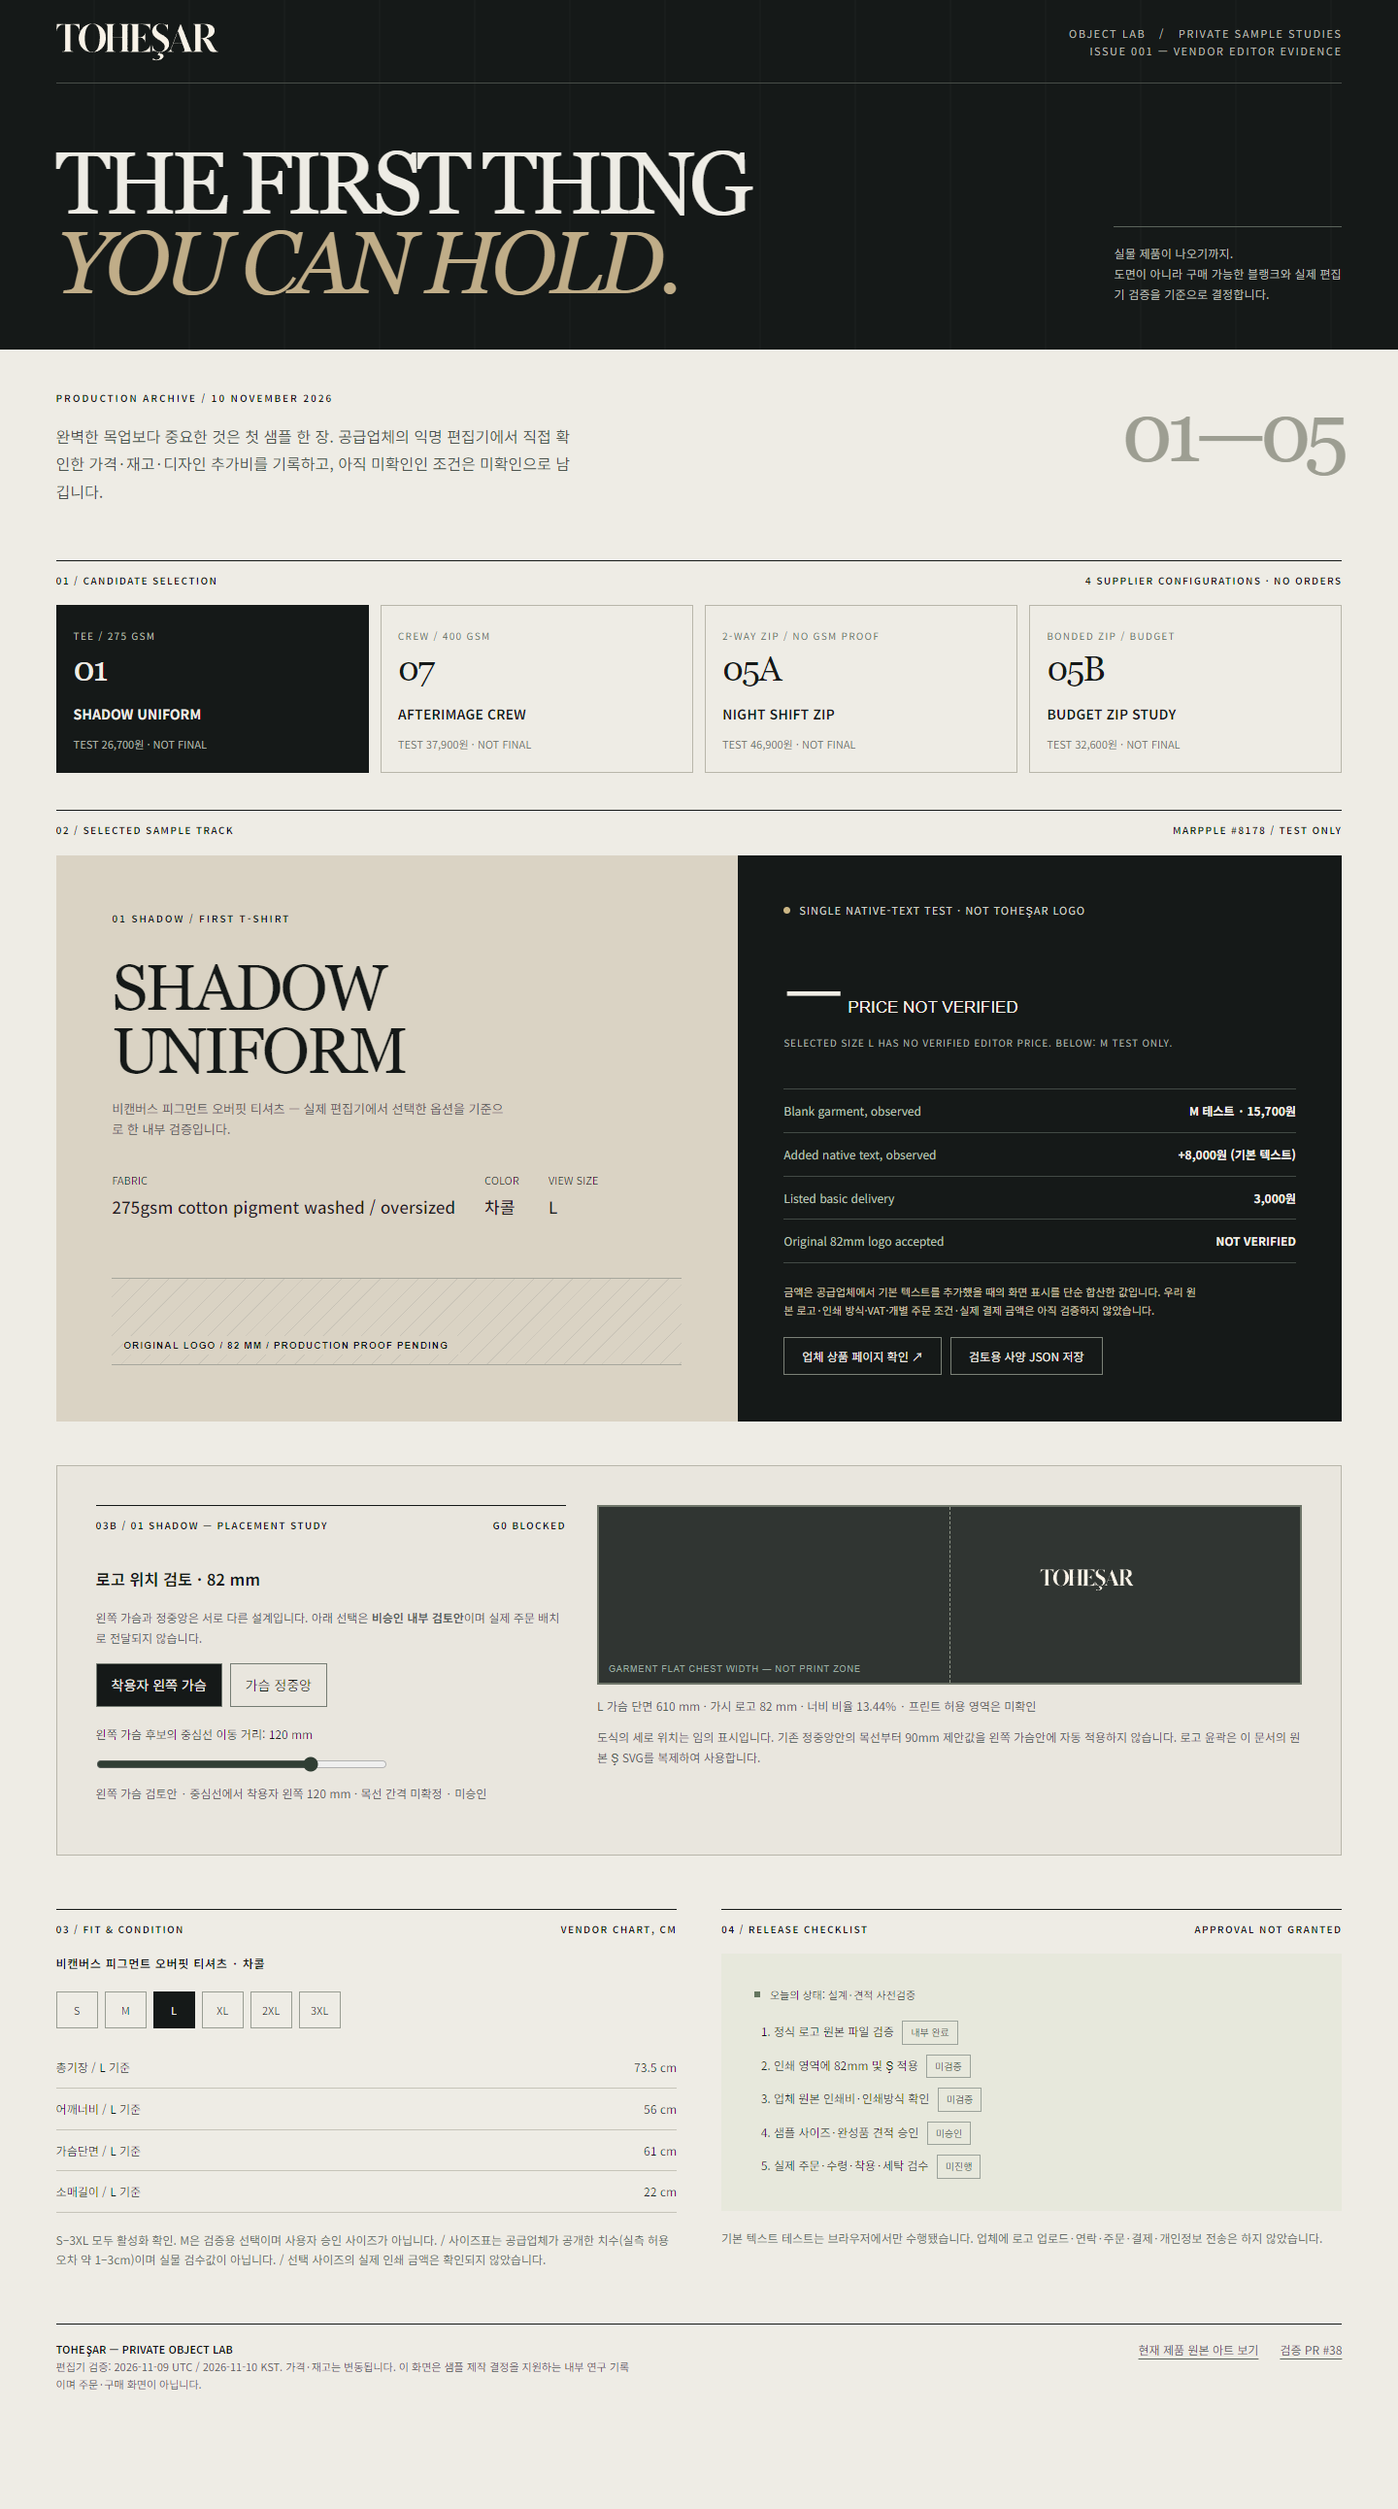
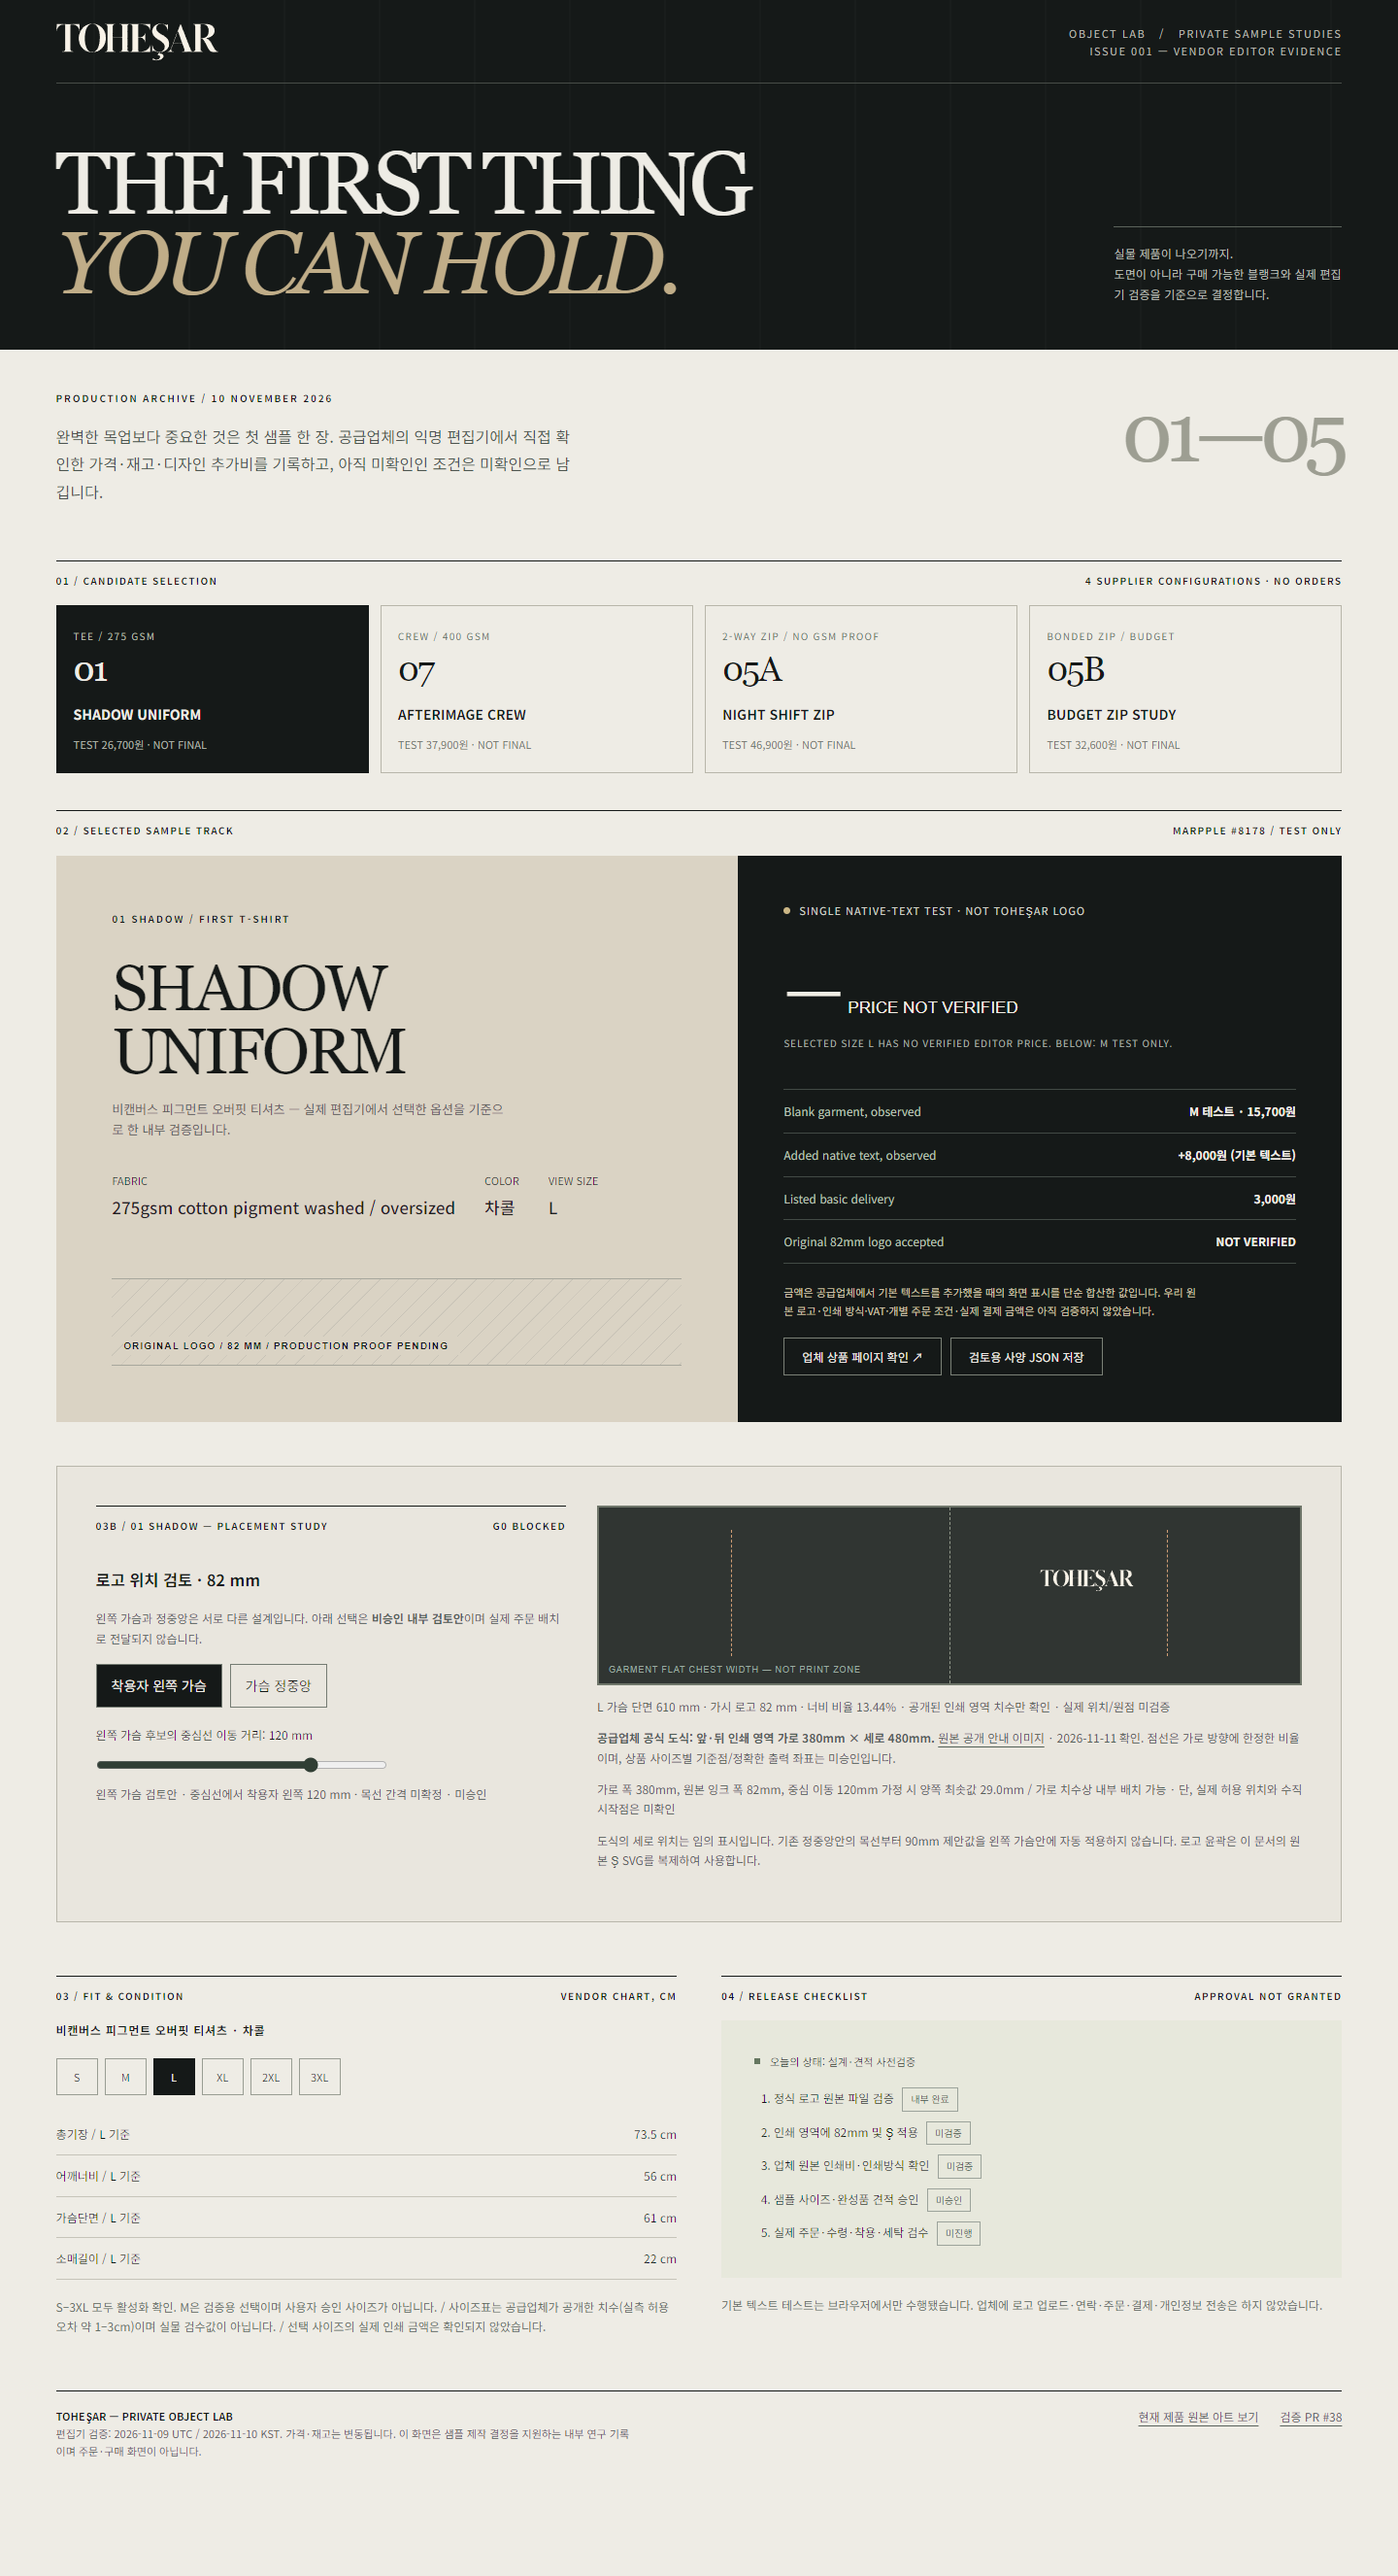
object-lab(01): ground chest placements in seller 380x480mm public print zone

diff --git a/object-lab/apparel/sample-room/SAMPLE-DECISION-ROOM-20261110.html b/object-lab/apparel/sample-room/SAMPLE-DECISION-ROOM-20261110.html
@@ -12,6 +12,7 @@
 .placement-fabric{width:100%;height:185px;background:#303532;position:relative;border:2px solid #6f766a;overflow:hidden}
 .placement-fabric:before{content:'';position:absolute;left:50%;top:0;height:100%;border-left:1px dashed #949b8d}
 .placement-fabric:after{content:'GARMENT FLAT CHEST WIDTH — NOT PRINT ZONE';position:absolute;bottom:9px;left:10px;font:9px Arial,sans-serif;color:#9caba0;letter-spacing:.1em}
+.print-zone-overlay{position:absolute;top:23px;bottom:28px;transform:translateX(-50%);border-left:1.5px dashed #e8ad7f;border-right:1.5px dashed #e8ad7f;pointer-events:none;opacity:.9}
 .placement-graphic{position:absolute;top:64px;transform:translateX(-50%);height:auto}
 .placement-graphic svg{display:block;width:100%;height:auto}
 .placement-empty{position:absolute;top:40px;left:20px;font-size:12px;color:#d6d6cb}
@@ -29,8 +30,11 @@
  </div>
  <div><div class="placement-fabric" id="placementFabric" aria-label="판매자 가슴 단면 대비 82mm 로고 비율 개념도">
  <div id="placementEmpty" class="placement-empty">검토할 위치를 선택하면 원본 Ş 로고가 표시됩니다.</div>
+ <div id="printZoneOverlay" class="print-zone-overlay" aria-hidden="true"></div>
  <div id="placementGraphic" class="placement-graphic" hidden></div>
  </div><p class="placement-note" id="placementScale">가슴 단면 기반 단순 비율 개념도. 실제 의류 패턴·인쇄 가능 영역·목선 위치가 아닙니다.</p>
+ <p class="placement-note" id="printZoneEvidence"><strong>공급업체 공식 도식: 앞·뒤 인쇄 영역 가로 380mm × 세로 480mm.</strong> <a href="https://s3.marpple.co/files/u_3136606/2025/5/original/9ccf2ad4d9fc9d4ddf486b3df5fb12ad55cab5471.png" target="_blank" rel="noopener noreferrer">원본 공개 안내 이미지</a> · 2026-11-11 확인. 점선은 가로 방향에 한정한 비율이며, 상품 사이즈별 기준점/정확한 출력 좌표는 미승인입니다.</p>
+ <p class="placement-note" id="printZoneFit" aria-live="polite">후보 위치를 선택하면 공급업체 공개 인쇄 영역의 가로 폭에 대한 조건부 여유를 계산합니다. 제조 허용 여부를 뜻하지 않습니다.</p>
  <p class="placement-note">도식의 세로 위치는 임의 표시입니다. 기존 정중앙안의 목선부터 90mm 제안값을 왼쪽 가슴안에 자동 적용하지 않습니다. 로고 윤곽은 이 문서의 원본 Ş SVG를 복제하여 사용합니다.</p></div>
  </section><section class="details"><div class="detail-col"><div class="sectionlabel"><span>03 / Fit & condition</span><span>vendor chart, cm</span></div><h3 id="sizeTitle">테스트 색상 · 차콜</h3><div class="sizebar" id="sizes" aria-label="검사 당시 사이즈 상태"></div><table class="tabledetail"><tr><td>길이 / M 기준</td><td id="measureLength"></td></tr><tr><td>어깨 / M 기준</td><td id="measureShoulder"></td></tr><tr><td>가슴 너비 / M 기준</td><td id="measureChest"></td></tr><tr><td>소매 길이 / M 기준</td><td id="measureSleeve"></td></tr></table><p class="comment" id="sizeComment"></p></div><div class="detail-col"><div class="sectionlabel"><span>04 / Release checklist</span><span>Approval not granted</span></div><div class="gates"><div class="product-flag">오늘의 상태: 설계·견적 사전검증</div><ol><li>정식 로고 원본 파일 검증 <span class="badge-inline">내부 완료</span></li><li>인쇄 영역에 82mm 및 Ş 적용 <span class="badge-inline">미검증</span></li><li>업체 원본 인쇄비·인쇄방식 확인 <span class="badge-inline">미검증</span></li><li>샘플 사이즈·완성품 견적 승인 <span class="badge-inline">미승인</span></li><li>실제 주문·수령·착용·세탁 검수 <span class="badge-inline">미진행</span></li></ol></div><p class="comment">기본 텍스트 테스트는 브라우저에서만 수행됐습니다. 업체에 로고 업로드·연락·주문·결제·개인정보 전송은 하지 않았습니다.</p></div></section><footer class="endnote"><p><strong>TOHEŞAR — PRIVATE OBJECT LAB</strong><br>편집기 검증: 2026-11-09 UTC / 2026-11-10 KST. 가격·재고는 변동됩니다. 이 화면은 샘플 제작 결정을 지원하는 내부 연구 기록이며 주문·구매 화면이 아닙니다.</p><div class="actionlinks"><a id="artLink" target="_blank" rel="noopener noreferrer">현재 제품 원본 아트 보기</a><a href="https://github.com/kimkimhs36/tohesar/pull/38" target="_blank" rel="noopener noreferrer">검증 PR #38</a></div></footer></main><script>
 const products=[
@@ -81,7 +85,8 @@ function render(){
  el('stockLabel').textContent='MARPPLE #'+d.sku+' / TEST ONLY';
 }
 
-const placementReview={mode:null,offsetMm:100}; // Explicit candidate, never automatic owner approval.
+const placementReview={mode:null,offsetMm:100}; // Owner approval never inferred.
[1 lines of base64/hex data omitted]
 const originalPreview=document.querySelector('svg.brandmark').cloneNode(true);
 originalPreview.removeAttribute('class');originalPreview.setAttribute('aria-hidden','true');
 el('placementGraphic').appendChild(originalPreview);
@@ -101,7 +106,13 @@ function renderPlacement(d,chosen){
  // Front view: wearer's left is on the viewer's right of the center line.
  el('placementGraphic').style.left=(50+100*centerOffsetMm/chestWidthMm)+'%';
  el('placementGraphic').style.width=(100*inkWidthMm/chestWidthMm)+'%';
- el('placementScale').textContent=chosen+' 가슴 단면 '+chestWidthMm+' mm · 가시 로고 '+inkWidthMm+' mm · 너비 비율 '+(100*inkWidthMm/chestWidthMm).toFixed(2)+'% · 프린트 허용 영역은 미확인';
+ el('printZoneOverlay').style.left='50%';
+ el('printZoneOverlay').style.width=(100*vendorPrintGuide.widthMm/chestWidthMm)+'%';
+ const horizontalMarginMm=selected?vendorPrintGuide.widthMm/2-Math.abs(centerOffsetMm)-inkWidthMm/2:null;
+ el('printZoneFit').textContent=horizontalMarginMm===null
+ ?'공식 공개 인쇄 영역 380×480mm · 후보 미선택 · 실제 배치 승인 보류'
+ :'가로 폭 380mm, 원본 잉크 폭 82mm, 중심 이동 '+centerOffsetMm+'mm 가정 시 양쪽 최솟값 '+horizontalMarginMm.toFixed(1)+'mm / '+(horizontalMarginMm<15?'가로 여유 적음: 재검토 권장':'가로 치수상 내부 배치 가능')+' · 단, 실제 허용 위치와 수직 시작점은 미확인';
+ el('placementScale').textContent=chosen+' 가슴 단면 '+chestWidthMm+' mm · 가시 로고 '+inkWidthMm+' mm · 너비 비율 '+(100*inkWidthMm/chestWidthMm).toFixed(2)+'% · 공개된 인쇄 영역 치수만 확인 · 실제 위치/원점 미검증';
  el('placementState').textContent=!selected?'배치 미선택 · G0 승인 보류':selected==='left-chest'
  ?'왼쪽 가슴 검토안 · 중심선에서 착용자 왼쪽 '+placementReview.offsetMm+' mm · 목선 간격 미확정 · 미승인'
  :'정중앙 검토안 · 중심선 0 mm · 목선부터 상단 90 ±5 mm는 내부 제안값 · 미승인';
@@ -118,7 +129,7 @@ el('exportSampleBrief').addEventListener('click',()=>{
    notPayableQuote:true
   },
   artwork:{name:'TOHEŞAR original Ş path',proposedWidthMm:82,supplierApproved:false,uploadedToSupplier:false},
-  placementReview:d.id==='01'?{status:'UNAPPROVED_REVIEW_ONLY',candidate:placementReview.mode,ownerApproved:false,supplierPrintZoneConfirmed:false,horizontalDatum:'center front; positive toward wearer left',lateralOffsetMm:placementReview.mode==='left-chest'?placementReview.offsetMm:placementReview.mode==='center-front'?0:null,visibleLogoWidthMm:82,verticalNeckOffsetMm:placementReview.mode==='center-front'?90:null,verticalDatumApproved:false}:null,
+  placementReview:d.id==='01'?{status:'UNAPPROVED_REVIEW_ONLY',candidate:placementReview.mode,ownerApproved:false,supplierPrintZoneConfirmed:false,publishedZoneMm:[380,480],publishedZoneSource:vendorPrintGuide.source,publishedZoneImageSha256:vendorPrintGuide.sha256,conditionalHorizontalClearanceMm:placementReview.mode===null?null:190-Math.abs(placementReview.mode==='left-chest'?placementReview.offsetMm:0)-41,verticalPrintOriginKnown:false,horizontalDatum:'center front; positive toward wearer left',lateralOffsetMm:placementReview.mode==='left-chest'?placementReview.offsetMm:placementReview.mode==='center-front'?0:null,visibleLogoWidthMm:82,verticalNeckOffsetMm:placementReview.mode==='center-front'?90:null,verticalDatumApproved:false}:null,
   approvals:{production:false,artwork:false,size:false,payment:false},notes:'This document is a working UNAPPROVED preproduction review. No order or payment.'};
  const a=document.createElement('a');const url=URL.createObjectURL(new Blob([JSON.stringify(data,null,2)],{type:'application/json'}));a.href=url;a.download='TOHESAR-'+d.id+'-'+size+'-SAMPLE-PREFLIGHT-NOT-APPROVED.json';document.body.appendChild(a);a.click();a.remove();URL.revokeObjectURL(url);
 });

diff --git a/object-lab/apparel/sample-room/PLACEMENT-REVIEW-HANDOFF-20261111.md b/object-lab/apparel/sample-room/PLACEMENT-REVIEW-HANDOFF-20261111.md
@@ -10,3 +10,12 @@
 - Real original PNG pixel regression and anonymous vendor UI smoke test were previously completed and recorded in `01-SHADOW-REAL-DEVICE-QA-RECEIPT-20261111.json`; do not repeat as a new milestone.
 - Unresolved: G0 explicit owner placement design approval; G1 actual supplier 82 mm printed area and logo upload (requires separate approval); G2 original-image price/tax/delivery; G3 chosen garment size; G4 ink process and care; G5 physical sample. No order, purchase, messaging or vendor logo upload.
 - NEXT single action: Have owner review the two 01 placements in the updated UI and confirm one actual design direction. Do not send logo to supplier, edit main, create a new branch, or restart the same completed QA cycles.
+
+## Seller-published print-area confirmation / 2026-11-11 (supersedes "no dimensions found")
+
[1 lines of base64/hex data omitted]
+- Evidence: `object-lab/apparel/01-shadow/vendor-export/01-SHADOW-8178-PUBLIC-PRINT-AREA-20261111.json`; review UI now displays the **380×480mm published region** alongside 82mm source-locked brand logo (the actual original SVG path is reused; no re-lettering).
+- Horizontal remaining margin formula is **190 − |wearer-left offset| − 41 mm**, assuming published 380mm region is centered on garment centerline and 82mm ink is centered on logo datum. Conditional examples: at 0, 60, 100, 120, 140mm offsets, clearance is 149, 89, 49, 29, 9mm. The 15mm low-margin warning is **internal only, not vendor certified**.
+- Center-origin, supplier-allowed exact coordinates, collar-to-print offset, per-size print zone, opacity, image upload, price and process still UNVERIFIED. **G0 owner placement BLOCKED**; **G1 actual 82mm design position NOT approved** despite the general public print-area dimensions being known. No logo uploaded, no vendor contact, no cart/checkout, no purchase, no merge.
+- Real desktop 1440px/mobile 390px Puppeteer verification on modified HTML: **12/12 focused checks PASS**, 2 JSON downloads, 0 JS errors, 0 external network. The existing four-product/size/export browser regression also reran: **10/10 PASS**, 2 downloads, 0 JS/network errors. Existing QA script and receipts updated; original past-source receipts remain.
+- Next actual sample action: explicit owner selection of left-chest vs center-front and size; independently authorized image upload to vendor required *before* logo-inclusive quote, separate approval again required before ordering.
